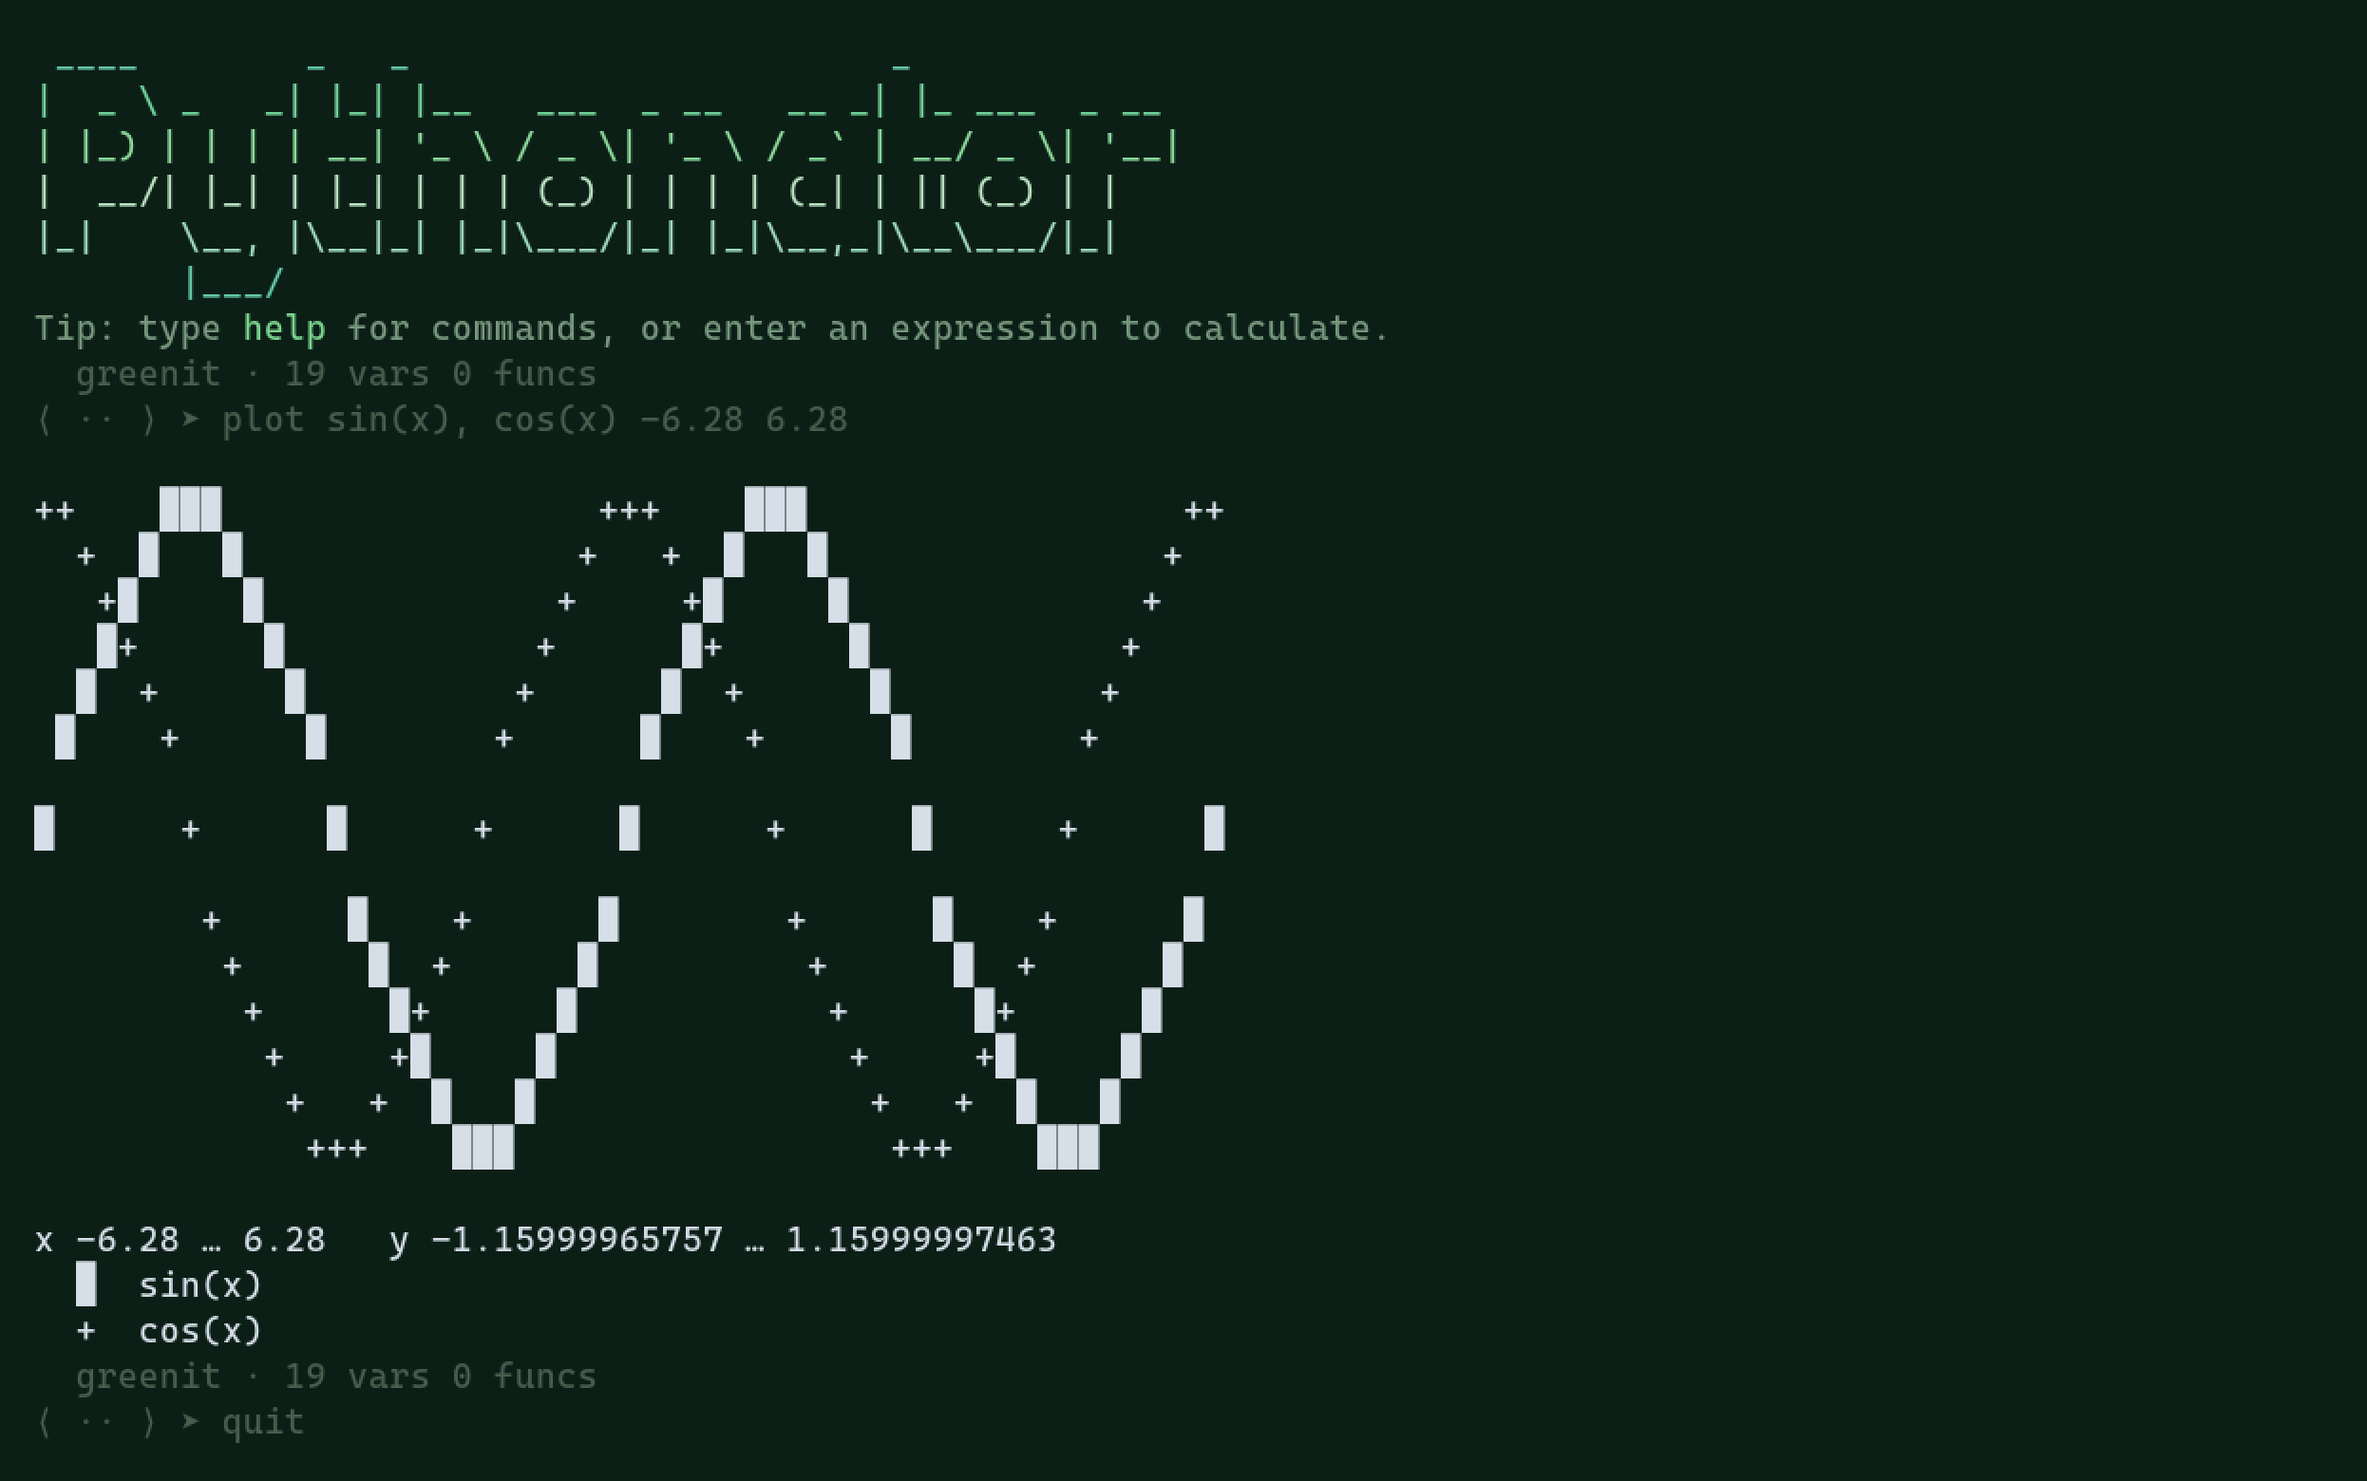
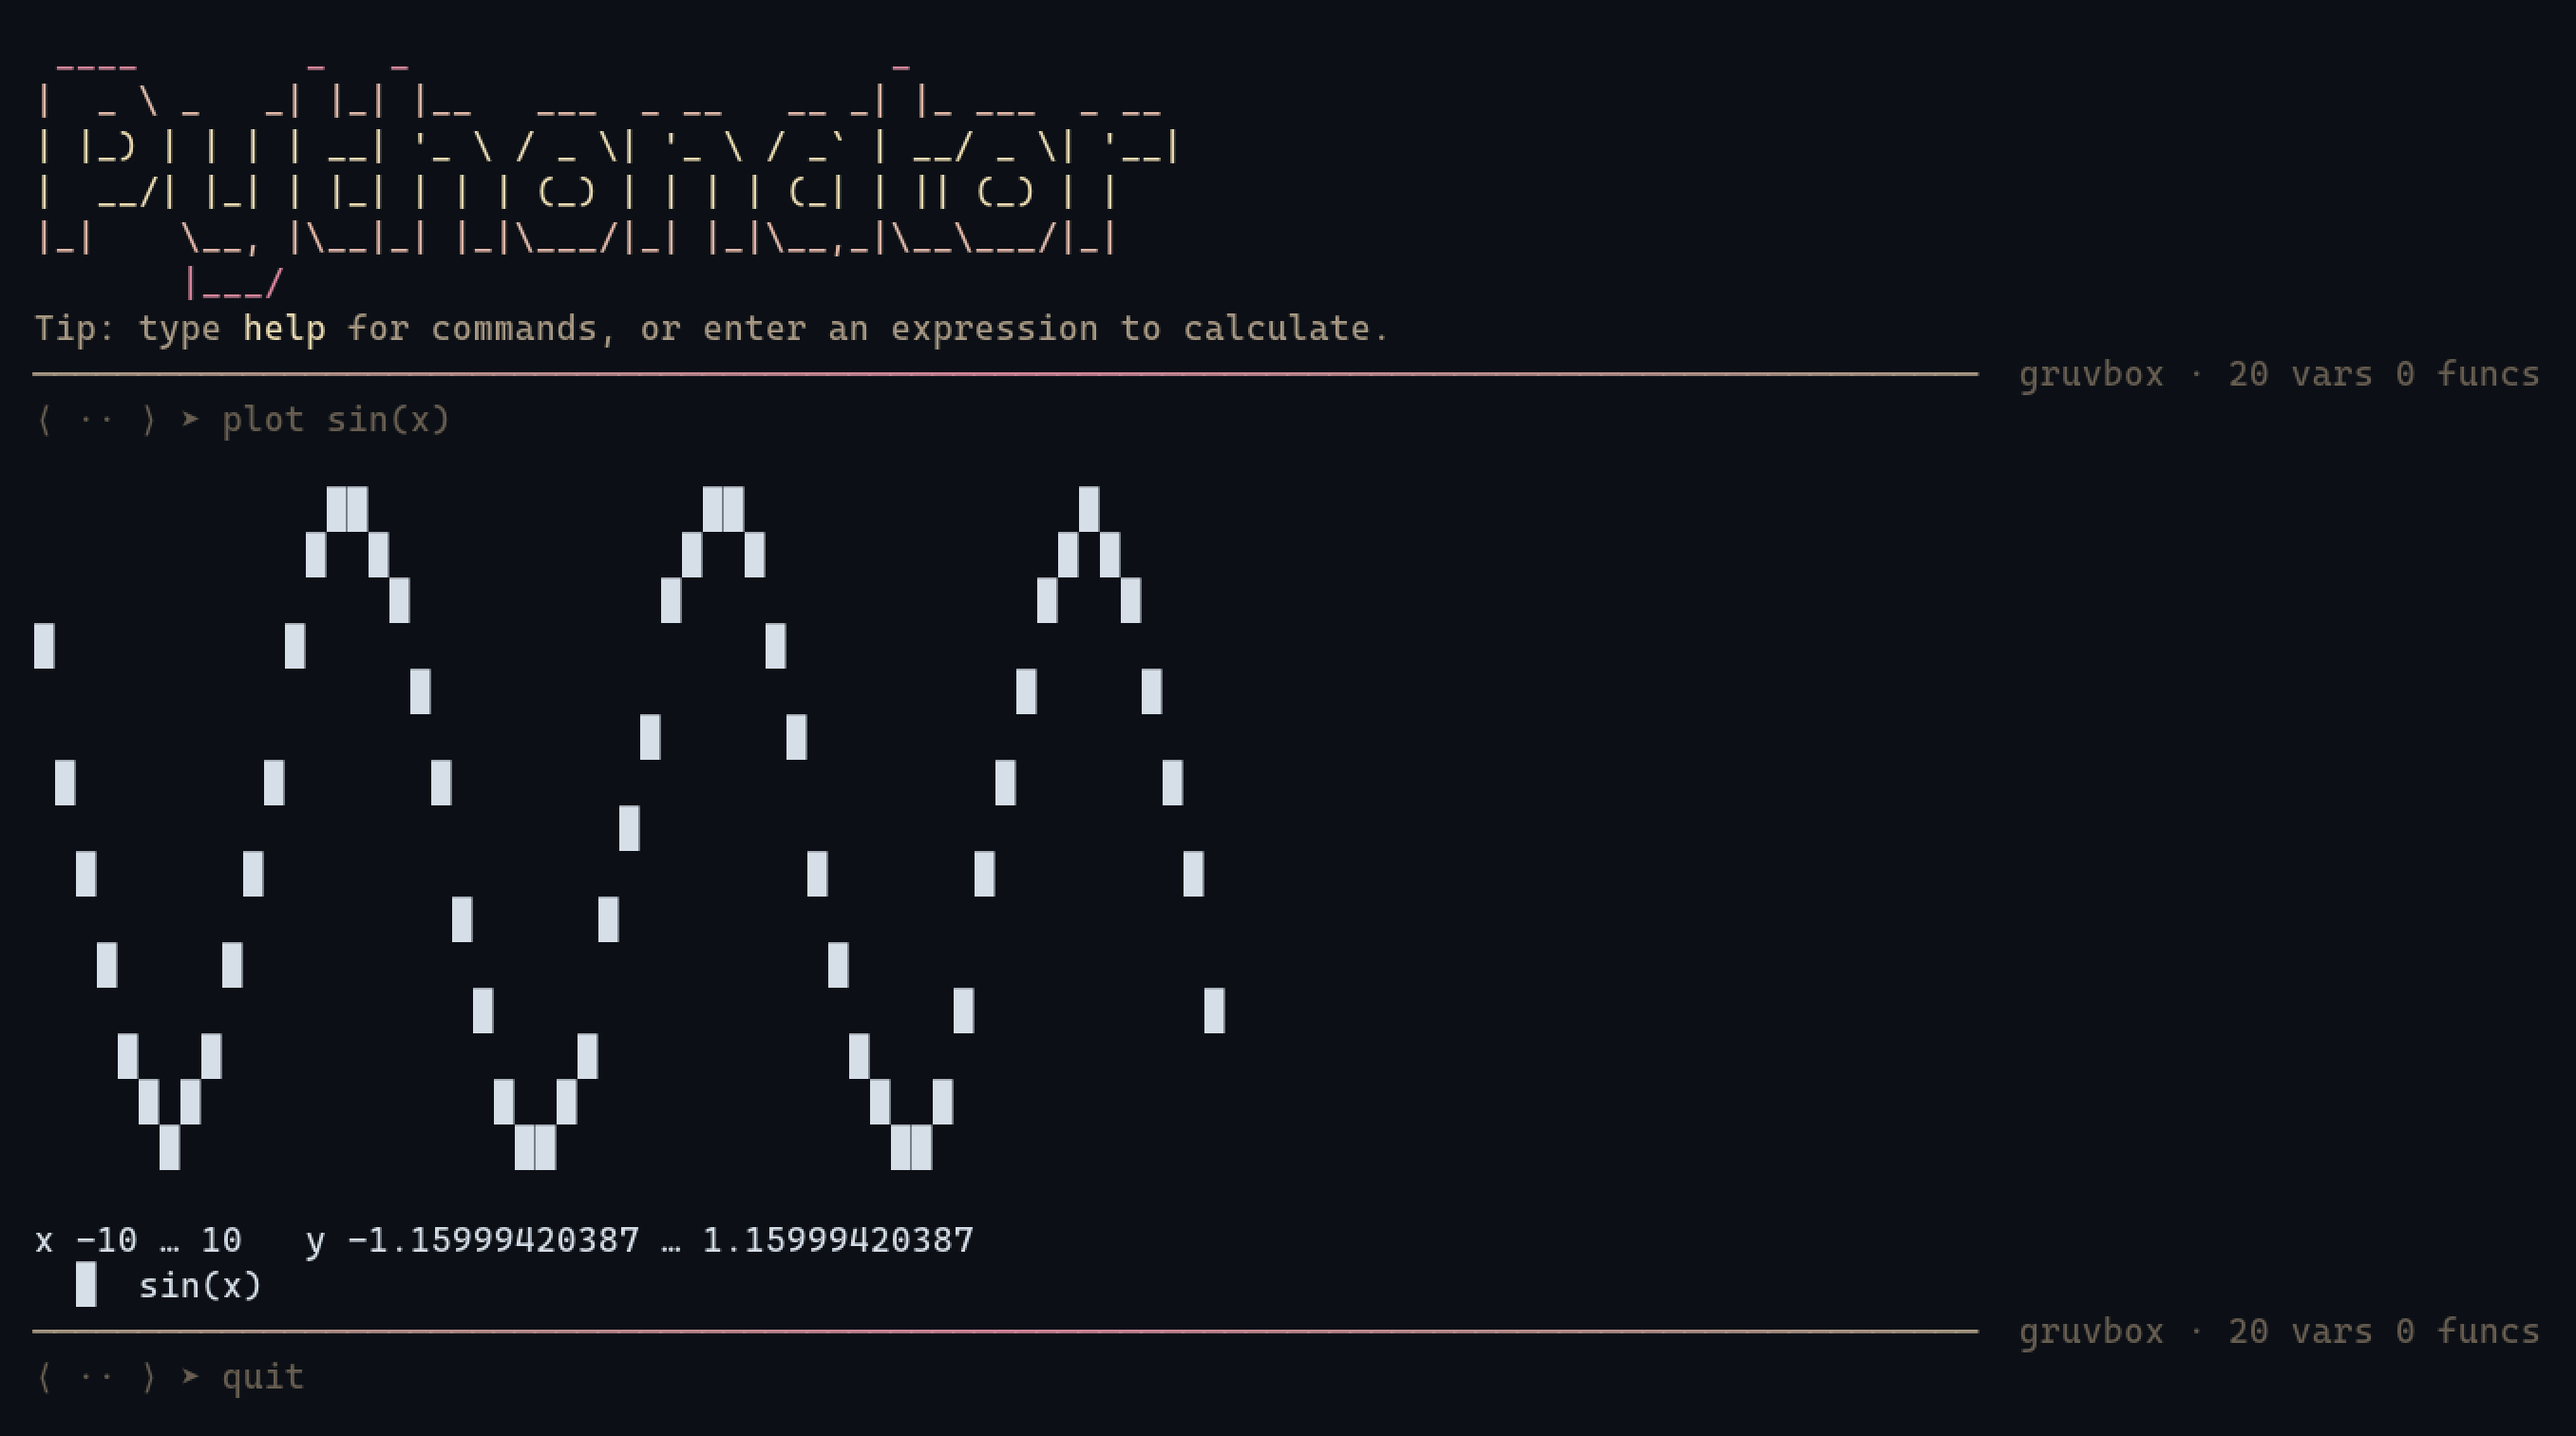
add real screenshots to README and homepage

diff --git a/index.html b/index.html
@@ -31,6 +31,7 @@ pre{background:var(--p);border:1px solid var(--b);border-radius:10px;padding:13p
 <p class="k">Calculator · Python · standard library only</p>
 <h1>Pythonator</h1>
 <p class="lede">Plusalator's Python sibling: complex numbers, memory slots, ASCII plots, unit conversion and a REPL that shows you how it read your expression.</p>
+<p><img src="docs/screenshot-repl.png" alt="Pythonator REPL"></p>
 <div class="buttons"><a class="btn primary" href="https://github.com/Mark44928/Pythonator">Source &amp; install</a><a class="btn" href="https://github.com/Mark44928/Plusalator">C++ original</a><a class="btn" href="https://github.com/Mark44928">Project hub</a></div>
 <pre>git clone https://github.com/Mark44928/Pythonator.git
 cd Pythonator &amp;&amp; ./install.sh &amp;&amp; pythonator</pre>

diff --git a/README.md b/README.md
@@ -46,6 +46,8 @@ Pythonator keeps Plusalator’s visual language:
 |---|---|---|
 | ![Pythonator REPL](docs/screenshot-repl.png) | ![Pythonator modes](docs/screenshot-modes.png) | ![Pythonator plot](docs/screenshot-plot.png) |
 
+![Pythonator unit conversion](docs/screenshot-units.png)
+
 ## Usage
 
 Headless:
